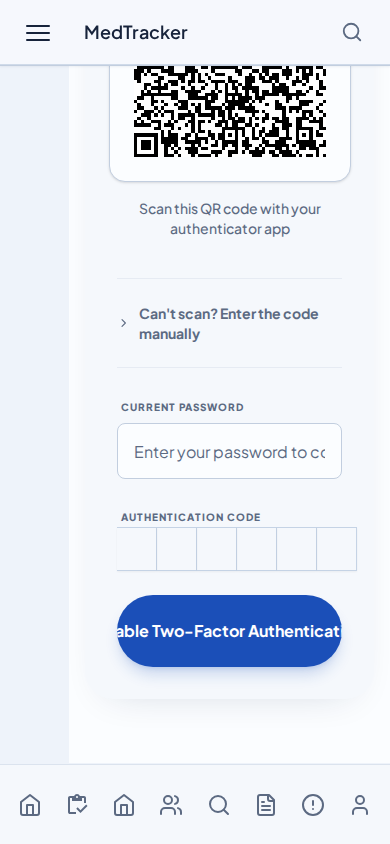
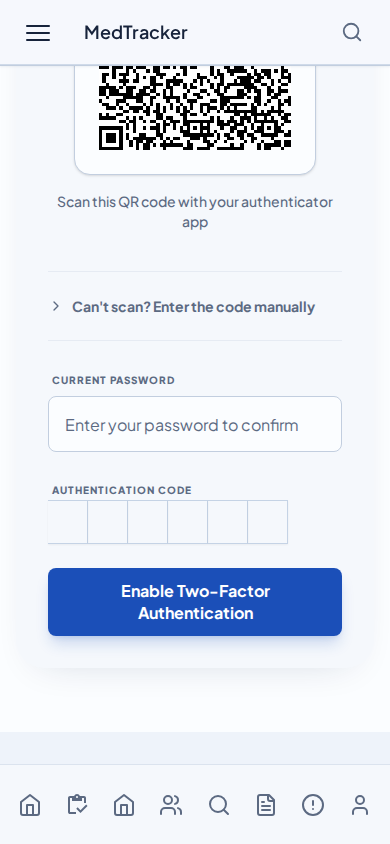
fix(auth): keep mobile submit labels readable

diff --git a/spec/features/profiles/two_factor_management_spec.rb b/spec/features/profiles/two_factor_management_spec.rb
@@ -62,10 +62,25 @@ RSpec.describe 'Two-Factor Authentication Management', type: :system do
     end
 
     it 'allows setting up and disabling TOTP', :browser do
+      page.current_window.resize_to(390, 844)
       visit '/otp-setup'
 
       expect(page).to have_css('[data-controller="ruby-ui--input-otp"]')
       expect(page).to have_css('[data-ruby-ui--input-otp-target="slot"]', count: 6)
+
+      button_geometry = page.evaluate_script(<<~JS)
+        (() => {
+          const button = Array.from(document.querySelectorAll('button'))
+            .find((element) => element.textContent.trim() === 'Enable Two-Factor Authentication')
+          const styles = getComputedStyle(button)
+
+          return {
+            radius: parseFloat(styles.borderTopLeftRadius),
+            textFits: button.scrollWidth <= button.clientWidth && button.scrollHeight <= button.clientHeight
+          }
+        })()
+      JS
+      expect(button_geometry).to include('radius' => 8, 'textFits' => true)
 
       secret = find("input[name='otp_secret']", visible: false).value
       totp = ROTP::TOTP.new(secret, issuer: 'MedTracker')

diff --git a/app/views/rodauth/base.rb b/app/views/rodauth/base.rb
@@ -88,9 +88,13 @@ module Views
       end
 
       def render_m3_submit_button(label)
-        m3_button(type: :submit, variant: :filled, size: :lg, class: 'w-full py-6 font-bold shadow-lg shadow-primary/20') do
-          label
-        end
+        m3_button(
+          type: :submit,
+          variant: :filled,
+          size: :lg,
+          class: 'w-full min-w-0 whitespace-normal rounded-shape-sm px-4 py-3 text-center font-bold leading-snug ' \
+                 'shadow-lg shadow-primary/20 sm:whitespace-nowrap sm:rounded-shape-full'
+        ) { label }
       end
 
       def render_otp_field(label:, name:, id:, error: nil)
